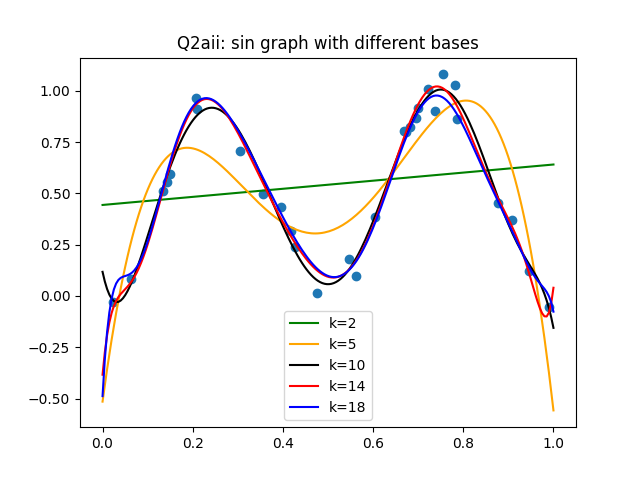
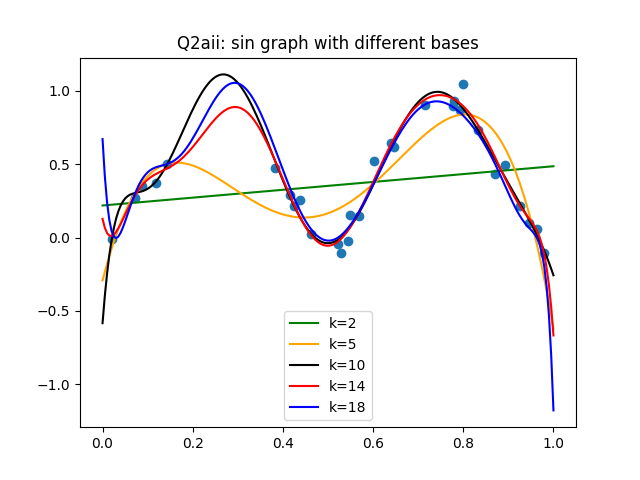
2d

diff --git a/q2.py b/q2.py
@@ -5,7 +5,12 @@ from polynomial_regression import PolynomialRegression
 from sys import exit
 from q1 import get_mse
 
+np.random.seed(0)
 STD = 0.07
+
+color_map = {
+	2: 'green', 5: 'orange', 10: 'black', 14: 'red', 18: 'blue'
+}
 
 
 def sin_function(x, epsilon):
@@ -13,19 +18,55 @@ def sin_function(x, epsilon):
 
 
 def random_sample(n_times):
-	# return np.random.rand(n_times, 1)
 	return np.random.uniform(0, 1, n_times)
-	# return np.linspace(start=0, stop=1, num=n_times)
 
 
-def MSE(x_data, y_data, parameters, function):
-	sum = 0
-	count = 0
-	for i in x_data:
-		# print((function(i, *parameters) - y_data[count]))
-		sum += ((function(i, *parameters) - y_data[count]) ** 2)
-		count += 1
-	return sum / len(x_data)
+def fit_polynomials_by_bases(base_list: list, train_data: dict,
+                             get_only_errors=False, get_test_error=False, test_data: dict = None):
+	"""
+	Train polynomialRegression, predict based on trained data, get training error
+
+	:param base_list: list of K's (bases)
+	:param get_only_errors: if True, does not plot a graph
+	:param get_test_error: bool
+	:param test_data: dictionary with keys 'X_test' and 'Y_test'
+	:return: training errors or both train and test errors of each bases
+	"""
+	X_train = train_data['X_train']
+	Y_train = train_data['Y_train']
+
+	train_error = []
+	test_error = []
+	for k in base_list:
+		model_fi_k = PolynomialRegression(degree=k - 1)
+		model_fi_k.fit(X_train, Y_train)
+		y_hat_k = model_fi_k.predict(X_train)
+
+		if not get_only_errors:
+			plot_x = np.linspace(0, 1, 200)
+			plot_x = np.array([plot_x]).T
+			plot_y = model_fi_k.predict(plot_x)
+			plt.plot(plot_x, plot_y, label=f'k={k}', color=color_map[k])
+		# plt.plot(x_data, y_hat_k, label=f'k={k}', color=color_map[k])
+
+		# Calculate MSE as a training error
+		mse = get_mse(Y_train, y_hat_k)
+		train_error.append(mse)
+
+		# Predict X_test with the model trained with X_train
+		if get_test_error:
+			assert test_data is not None
+			X_test, Y_test = test_data['X_test'], test_data['Y_test']
+			y_hat_test_k = model_fi_k.predict(X_test)
+
+			# get test errors
+			mse_test = get_mse(Y_test, y_hat_test_k)
+			test_error.append(mse_test)
+
+	if get_test_error:
+		return train_error, test_error
+	else:
+		return train_error
 
 
 if __name__ == '__main__':
@@ -59,57 +100,12 @@ if __name__ == '__main__':
 
 	X_train = np.array([x_data]).T
 	Y_train = np.array(y_data)
-
-	color_map = {
-		2: 'green', 5: 'orange', 10: 'black', 14: 'red', 18: 'blue'
+	train_data = {
+		'X_train': X_train,
+		'Y_train': Y_train
 	}
 
-
-	def fit_polynomials_by_bases(base_list: list, get_only_errors=False, get_test_error=False, test_data=None):
-		"""
-		Train polynomialRegression, predict based on trained data, get training error
-
-		:param base_list: list of K's (bases)
-		:param get_only_errors: if True, does not plot a graph
-		:param get_test_error: bool
-		:param test_data: dictionary with keys 'X_test' and 'Y_test'
-		:return: training errors or both train and test errors of each bases
-		"""
-		train_error = []
-		test_error = []
-		for k in base_list:
-			model_fi_k = PolynomialRegression(degree=k - 1)
-			model_fi_k.fit(X_train, Y_train)
-			y_hat_k = model_fi_k.predict(X_train)
-
-			if not get_only_errors:
-				plot_x = np.linspace(0, 1, 200)
-				plot_x = np.array([plot_x]).T
-				plot_y = model_fi_k.predict(plot_x)
-				plt.plot(plot_x, plot_y, label=f'k={k}', color=color_map[k])
-				# plt.plot(x_data, y_hat_k, label=f'k={k}', color=color_map[k])
-
-			# Calculate MSE as a training error
-			mse = get_mse(Y_train, y_hat_k)
-			train_error.append(mse)
-
-			# Predict X_test with the model trained with X_train
-			if get_test_error:
-				assert test_data is not None
-				X_test, Y_test = test_data['X_test'], test_data['Y_test']
-				y_hat_test_k = model_fi_k.predict(X_test)
-
-				# get test errors
-				mse_test = get_mse(Y_test, y_hat_test_k)
-				test_error.append(mse_test)
-
-		if get_test_error:
-			return train_error, test_error
-		else:
-			return train_error
-
-
-	_ = fit_polynomials_by_bases([2, 5, 10, 14, 18])
+	_ = fit_polynomials_by_bases([2, 5, 10, 14, 18], train_data=train_data)
 
 	plt.legend()
 	plt.title("Q2aii: sin graph with different bases")
@@ -123,7 +119,7 @@ if __name__ == '__main__':
 	plot3 = plt.figure(3)
 
 	bases = [x + 1 for x in range(18)]
-	training_error = fit_polynomials_by_bases(bases, get_only_errors=True)
+	training_error = fit_polynomials_by_bases(bases, train_data=train_data, get_only_errors=True)
 	plt.plot(bases, training_error)
 	plt.title("Q2b: train error Vs. polynomial dimension")
 	plt.xticks(bases)
@@ -154,8 +150,8 @@ if __name__ == '__main__':
 		'Y_test': Y_test
 	}
 
-	train_errors, test_errors = fit_polynomials_by_bases(bases, get_only_errors=True,
-														 get_test_error=True, test_data=test_data)
+	train_errors, test_errors = fit_polynomials_by_bases(bases, train_data=train_data, get_only_errors=True,
+	                                                     get_test_error=True, test_data=test_data)
 
 	# plot both train and test errors
 	plot5 = plt.figure(5)
@@ -168,23 +164,27 @@ if __name__ == '__main__':
 	plt.xticks(bases)
 	plt.savefig('./plots/q2c.png')
 
-	exit(1)
 	###############
 	# Question 2d #
 	###############
 	# Average of 100 runs
-	train_errors, test_errors = np.zeros(shape=(100, 18)), np.zeros(shape=(100, 18))
+	train_errors_sum, test_errors_sum = np.zeros(shape=(100, 18)), np.zeros(shape=(100, 18))
 	for i in range(100):
+		# TODO: Why is this not working?
 		# Train set generation
-		x_data = random_sample(n_times=30)
-		noise = np.random.normal(0, STD, x_data.shape)
-		y_data = sin_function(x_data, noise)
-		X_train = np.array([x_data]).T
-		Y_train = np.array(y_data)
+		# x_data = random_sample(n_times=30)
+		# noise = np.random.normal(0, STD, x_data.shape[0])
+		# y_data = sin_function(x_data, noise)
+		# X_train = np.array([x_data]).T
+		# Y_train = np.array(y_data)
+		# train_data = {
+		# 	'X_train': X_train,
+		# 	'Y_train': Y_train
+		# }
 
 		# Test set generation
 		x_test = random_sample(n_times=1000)
-		noise = np.random.normal(0, STD, x_test.shape)
+		noise = np.random.normal(0, STD, x_test.shape[0])
 		y_test = sin_function(x_test, noise)
 		X_test = np.array([x_test]).T
 		Y_test = np.array(y_test)
@@ -192,3 +192,22 @@ if __name__ == '__main__':
 			'X_test': X_test,
 			'Y_test': Y_test
 		}
+
+		train_errors, test_errors = fit_polynomials_by_bases(bases, train_data=train_data, get_only_errors=True,
+		                                                     get_test_error=True, test_data=test_data)
+		train_errors_sum[i] = np.array(train_errors)
+		test_errors_sum[i] = np.array(test_errors)
+
+	train_errors_avg = np.average(train_errors_sum, axis=0)
+	test_errors_avg = np.average(test_errors_sum, axis=0)
+
+	# plot both average train and test errors in log scale
+	plot6 = plt.figure(6)
+
+	plt.plot(bases, train_errors_avg, label='Average train error', color='blue')
+	plt.plot(bases, test_errors_avg, label='Average test error', color='green')
+	plt.title("Q2d: Average test errors")
+	plt.yscale('log')
+	plt.legend()
+	plt.xticks(bases)
+	plt.savefig('./plots/q2d.png')
